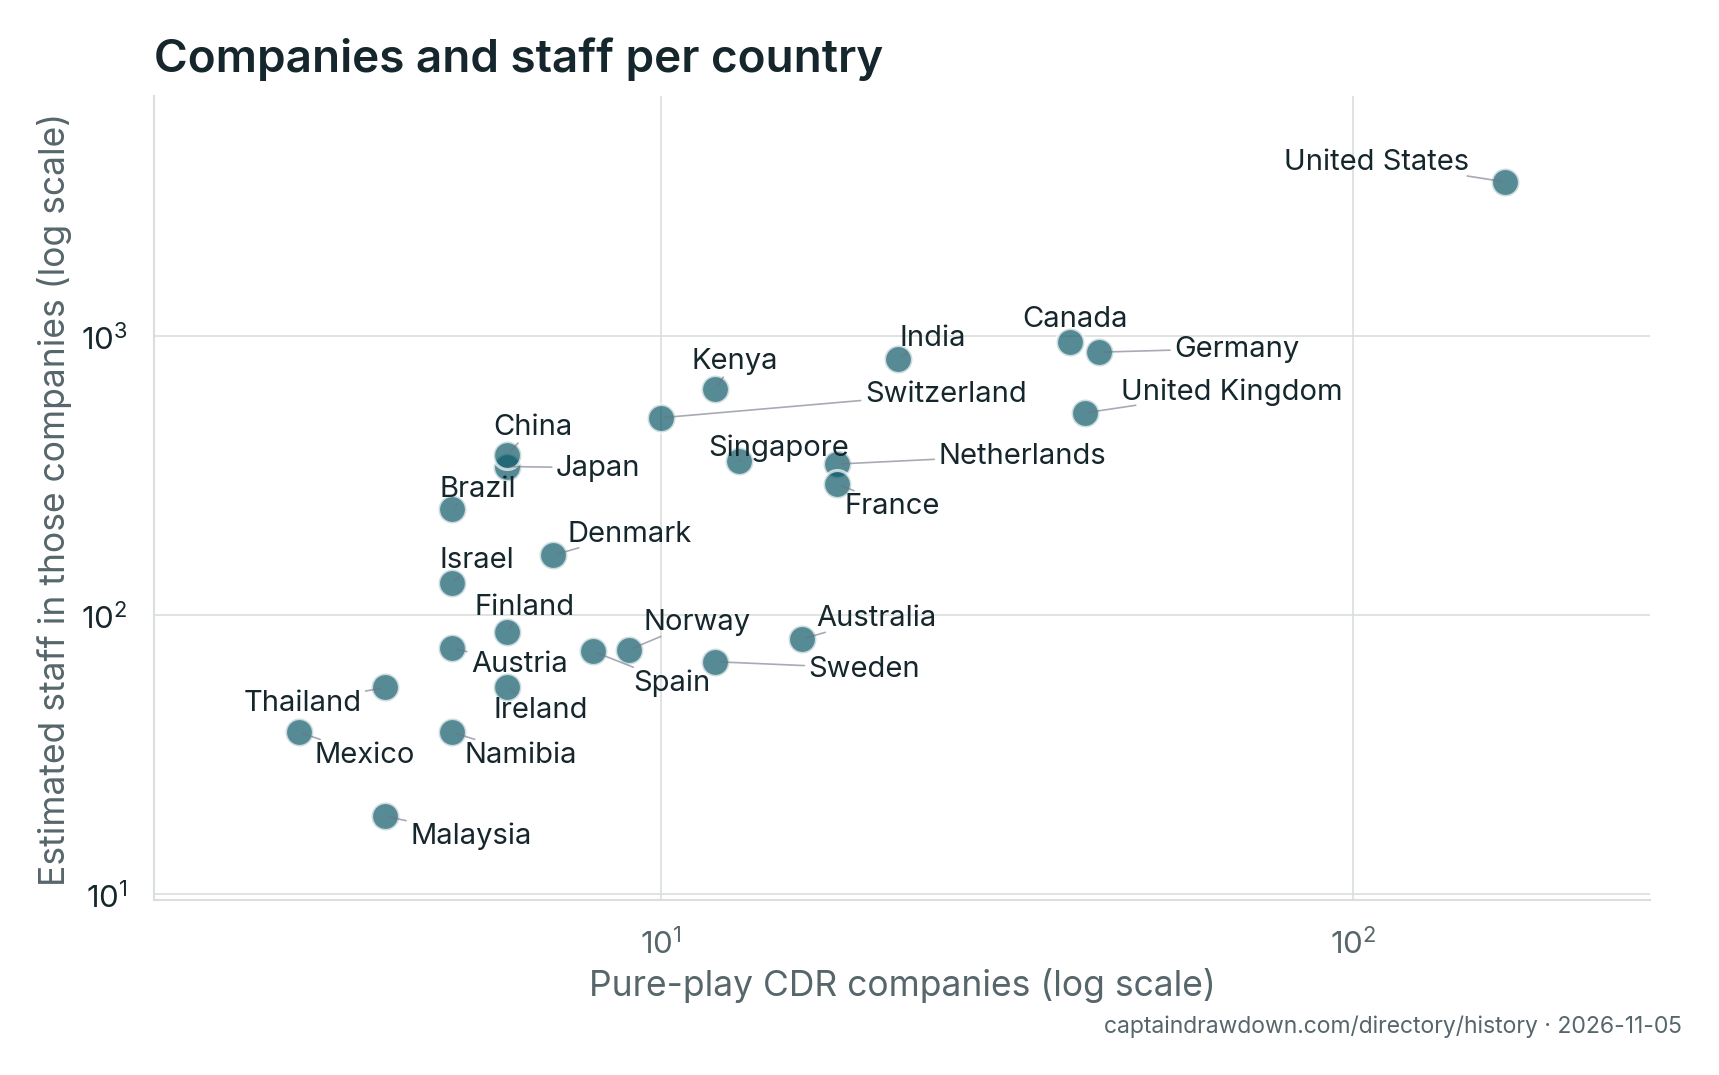
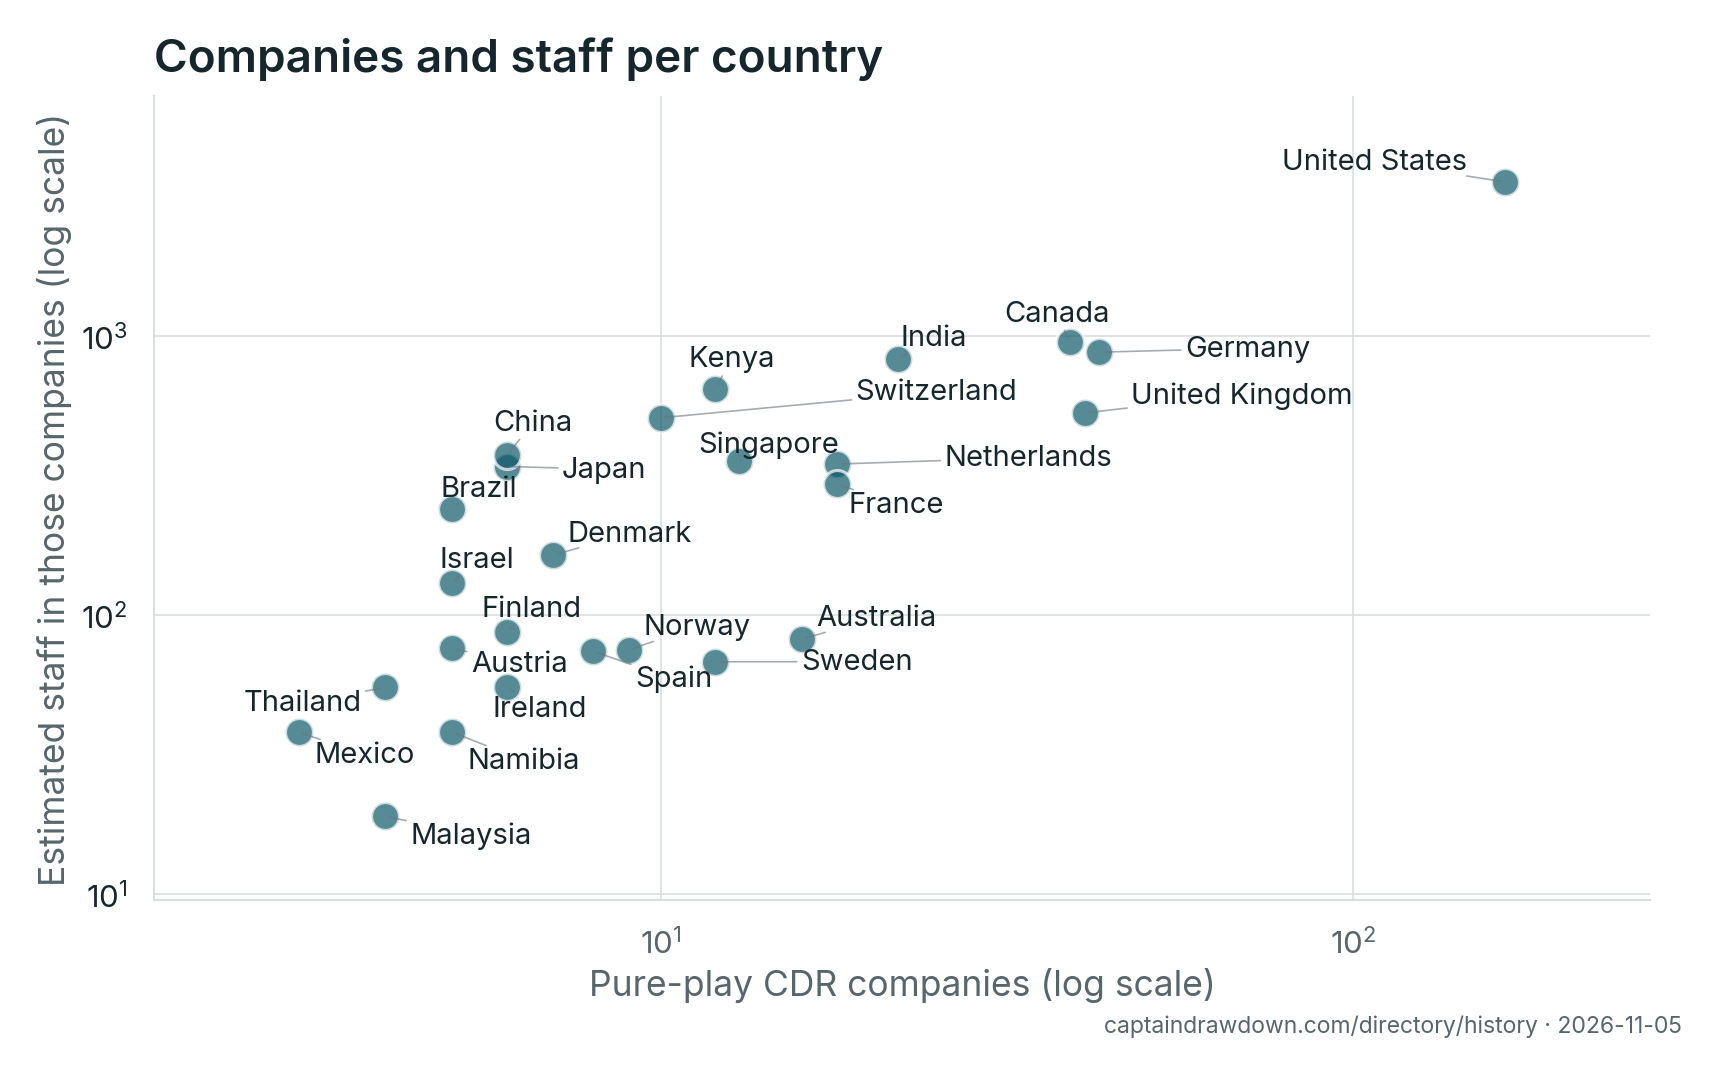
Census page from the rebuilt release; country scatter with placed labels
Claude-Session: https://claude.ai/code/session_01VKpAB4eLMmejb9sQekW26b

diff --git a/content/cdr-researcher-census/_index.md b/content/cdr-researcher-census/_index.md
@@ -89,7 +89,7 @@ CDR-relevant papers and preprints in the census by publication year. The last tw
 3. **Institution.** The institution that appears most often on the researcher's own papers 2024–2026 (from the OpenAlex authorships, or from the affiliation text when OpenAlex has no match), else the ORCID employment, else the OpenAlex author profile. The top lists say which source applies (`institution_source`).
 4. **Ranking.** Top lists count CDR papers and preprints 2021–2026 per pathway; the citation rank orders the same people by citations to those papers. Both ranks are in every list.
 5. **Calibration.** A March 2026 sample measured per-country precision and recall of the OpenAlex attribution; the calibrated estimate scales the listed counts accordingly.
-6. **Refresh.** The database refreshes on the 11th of every month; the release around the 15th freezes the files under `/data/v1/<version>/`.
+6. **Refresh.** The database refreshes on the 11th of every month; the release around the 15th publishes the files under `/data/v1/<version>/`.
 
 ## Known limitations
 
